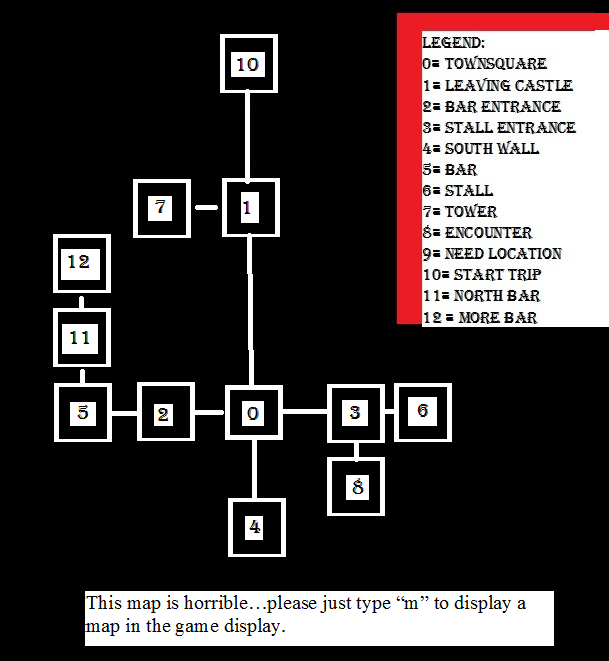
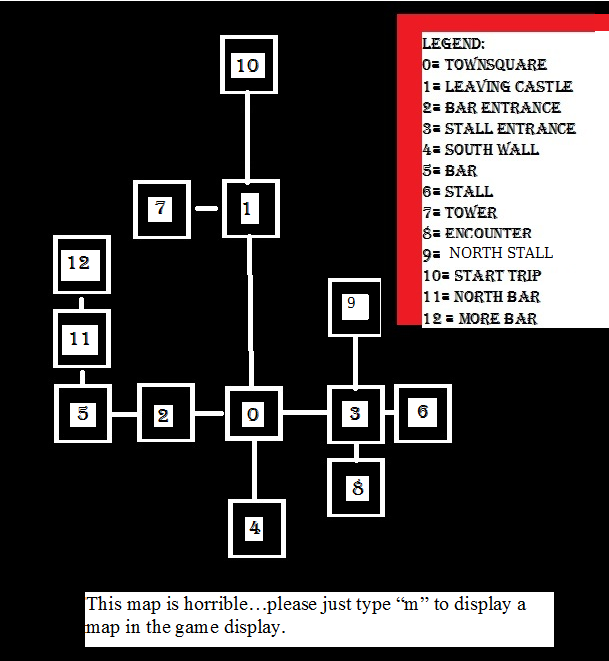
Project 5 v1.2
Added onto map and fixed validation error in html

diff --git a/Project 5/project5.html b/Project 5/project5.html
@@ -63,7 +63,7 @@
     
     <span id="scoreCounter"> Your current score is: <span id="score"> 0  </span> </span>  
     <br>
-    <p= "gamemap">
+    <p id="gamemap">
     <img src= "gamemap.png" width= "500" height= "500" 
            alt = "Game Map" />  
     </p>
